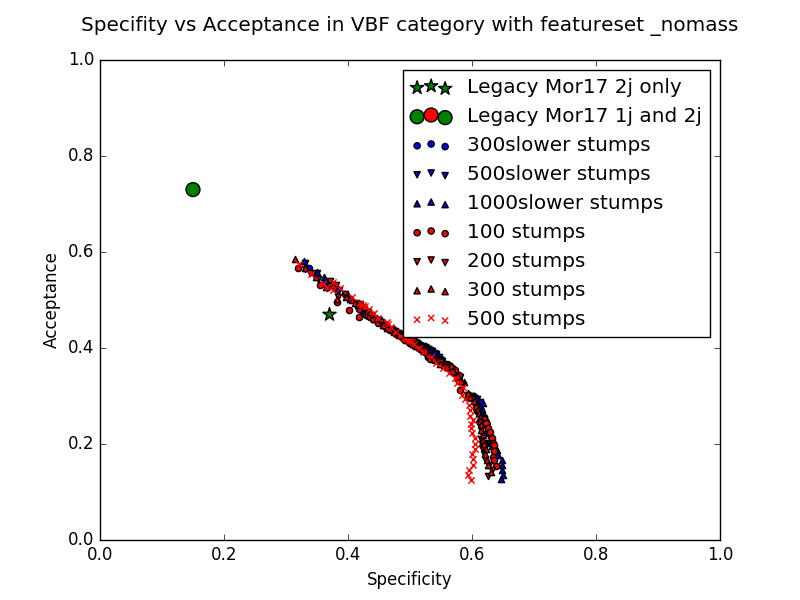
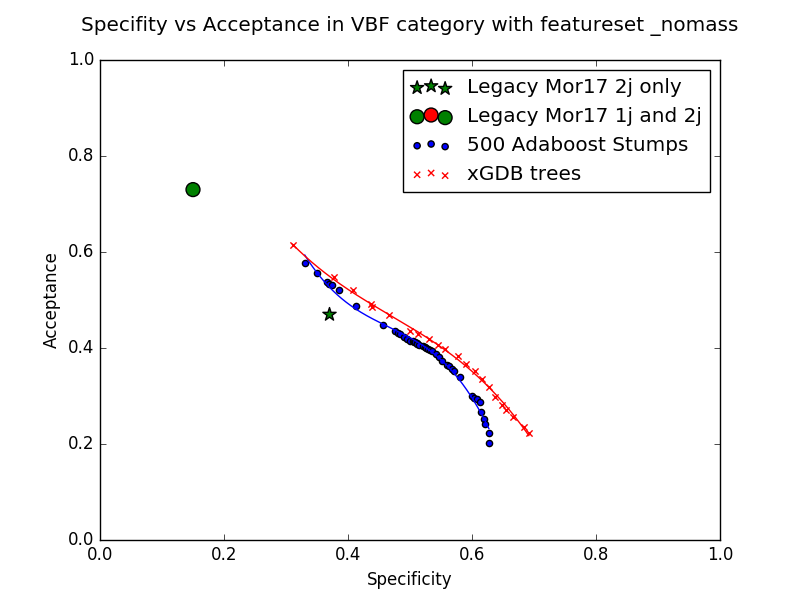
Trained xgdb models.

Changed region(s): [[0.3438, 0.21, 0.9062, 0.81]]

diff --git a/main.py b/main.py
@@ -10,6 +10,8 @@ from core import assertions
 from core import legacy
 import core.preprocessing as pr
 import core.roc_curve as roc
+import sys
+from contextlib import contextmanager
 logging.basicConfig(filename='logs', format='%(levelname)s %(asctime)s %(message)s', level=logging.INFO,
                     datefmt='%H:%M:%S')
 logging.info('Logger initialized')
@@ -17,41 +19,50 @@ logging.info('Logger initialized')
 if cst.ignore_warnings:
     warnings.filterwarnings('ignore')
 
+@contextmanager
+def redirected(stdout):
+    saved_stdout = sys.stdout
+    sys.stdout = open(stdout, 'w')
+    yield
+    sys.stdout = saved_stdout
+
 
 if __name__ == "__main__":
+
+    evl.content_plot('xgb_200', save=True)
+    raise IOError
     try:
         # raise IOError
         open('saves/common_nomass/full_test_set.dst')
     except IOError:
         logging.info('Preprocessing datasets (might take some time)')
         pr.full_process((0, 1,))
-
-    for plop in [1]:
-        cst.features_set_selector = plop
-        directory, suffix = cst.dir_suff_dict[cst.features_set_selector]
-        for model_name in cst.models_dict.keys():
-            logging.info('Studying model ' + model_name + suffix)
-            try:
-                #raise IOError
-                open('saves/classifiers/' + model_name + suffix + '_categorizer.pkl', 'rb')
-            except IOError:
-                logging.info('Training model ' + model_name)
-                if model_name[0] == 'a':
-                    ctg.model_training(model_name)
-                elif model_name[0] == 'x':
-                    ctg.train_xgcd(model_name)
-            try:
-                #raise IOError
-                open('saves/predictions/' + model_name + suffix + '_predictions.prd', 'rb')
-                open('saves/predictions/' + model_name + suffix + '_bkg_predictions.prd', 'rb')
-            except IOError:
-                logging.info('Generating predictions for ' + model_name + suffix)
-                ctg.generate_predictions(model_name)
-            try:
-                #raise IOError
-                open('saves/metrics/' + model_name + suffix + '_acceptance.txt', 'rb')
-            except IOError:
-                logging.info('Generating metrics for ' + model_name + suffix)
-                evl.calculate_metrics(model_name)
-        logging.info('All models studied with features set ' + suffix)
-    #roc.main()
+    with redirected(stdout='logs'):
+        for plop in [1]:
+            cst.features_set_selector = plop
+            directory, suffix = cst.dir_suff_dict[cst.features_set_selector]
+            for model_name in cst.models_dict.keys():
+                logging.info('Studying model ' + model_name + suffix)
+                try:
+                    #raise IOError
+                    open('saves/classifiers/' + model_name + suffix + '_categorizer.pkl', 'rb')
+                except IOError:
+                    logging.info('Training model ' + model_name)
+                    if model_name[0] == 'a':
+                        ctg.model_training(model_name)
+                    elif model_name[0] == 'x':
+                        ctg.train_xgcd(model_name)
+                try:
+                    #raise IOError
+                    open('saves/predictions/' + model_name + suffix + '_predictions.prd', 'rb')
+                    open('saves/predictions/' + model_name + suffix + '_bkg_predictions.prd', 'rb')
+                except IOError:
+                    logging.info('Generating predictions for ' + model_name + suffix)
+                    ctg.generate_predictions(model_name)
+                try:
+                    #raise IOError
+                    open('saves/metrics/' + model_name + suffix + '_acceptance.txt', 'rb')
+                except IOError:
+                    logging.info('Generating metrics for ' + model_name + suffix)
+                    evl.calculate_metrics(model_name)
+            logging.info('All models studied with features set ' + suffix)

diff --git a/core/trainer.py b/core/trainer.py
@@ -11,16 +11,18 @@ import pandas as pd
 import matplotlib.pylab as plt
 from sklearn.model_selection import GridSearchCV
 
+with open('saves/common_nomass/scaler.pkl', 'rb') as f:
+    nomass_scaler = pickle.load(f)
+
 train = pd.read_table('saves/common_nomass/full_training_set.dst',sep=None, names=cst.features_names_xgdb, header=None)
 train_label = np.loadtxt('saves/common_nomass/full_training_labels.lbl')
 train['prod_mode'] = train_label
 test = pd.read_table('saves/common_nomass/full_test_set.dst',sep=None, names=cst.features_names_xgdb, header=None)
 test_label = np.loadtxt('saves/common_nomass/full_test_labels.lbl')
-test['prod_mode'] = test_label
-
 target = 'prod_mode'
 predictors = [x for x in train.columns if x not in [target]]
-
+#xgtest = xgb.DMatrix(train[predictors].values, label=train[target].values)
+bkg = pd.DataFrame(nomass_scaler.transform(np.loadtxt('saves/common_nomass/ZZTo4l.dst')), columns=cst.features_names_xgdb)
 
 def model_training(model_name):
     models_dict = copy(cst.models_dict)
@@ -52,29 +54,35 @@ def train_xgcd(model_name, early_stopping_rounds=30, cv_folds=5):
     suffix = '_nomass'
     xgb_param = alg.get_xgb_params()
     weights = np.array([class_weights[int(cat)] for cat in train_label])
-    xgtrain = xgb.DMatrix(train[predictors].values, label=train[target].values, weights=weights)
+    xgtrain = xgb.DMatrix(train[predictors].values, label=train[target].values, weight=weights)
     cvresult = xgb.cv(xgb_param, xgtrain, num_boost_round=alg.get_params()['n_estimators'], nfold=cv_folds,
-                      stratified=True, metrics='merror', early_stopping_rounds=early_stopping_rounds, verbose_eval=2)
+                      stratified=True, metrics='merror', early_stopping_rounds=early_stopping_rounds, verbose_eval=None)
     alg.set_params(n_estimators=cvresult.shape[0])
-    alg.fit(train[predictors], train[target], eval_metric='merror')
-
+    logging.info('Number of boosting rounds optimized')
+    alg.fit(train[predictors], train[target], eval_metric='merror', sample_weight=weights)
+    logging.info('Model fit')
     with open('saves/classifiers/' + model_name + suffix + '_categorizer.pkl', 'wb') as f:
         pickle.dump(alg, f)
 
 
 def generate_predictions(model_name):
     directory, suffix = cst.dir_suff_dict[cst.features_set_selector]
-    scaled_dataset = np.loadtxt(directory + 'full_test_set.dst')
-    background_dataset = np.loadtxt(directory + 'ZZTo4l.dst')
-
     with open('saves/classifiers/' + model_name + suffix + '_categorizer.pkl', mode='rb') as f:
         classifier = pickle.load(f)
     with open(directory + 'scaler.pkl', mode='rb') as f:
         scaler = pickle.load(f)
 
-    results = classifier.predict(scaled_dataset)
-    probas = classifier.predict_proba(scaled_dataset)
-    bkg_results = classifier.predict(scaler.transform(background_dataset))
+    if model_name[0] == 'a':
+        scaled_dataset = np.loadtxt(directory + 'full_test_set.dst')
+        background_dataset = np.loadtxt(directory + 'ZZTo4l.dst')
+        results = classifier.predict(scaled_dataset)
+        probas = classifier.predict_proba(scaled_dataset)
+        bkg_results = classifier.predict(scaler.transform(background_dataset))
+    elif model_name[0] == 'x':
+        results = classifier.predict(test)
+        probas = classifier.predict_proba(test)
+        bkg_results = classifier.predict(bkg)
+
 
     out_path = 'saves/predictions/' + model_name + suffix
     np.savetxt(out_path + '_predictions.prd', results)

diff --git a/core/roc_curve.py b/core/roc_curve.py
@@ -7,6 +7,7 @@ import matplotlib.pyplot as p
 from core.evaluation import content_plot
 import os
 import logging
+
 decision_stump = DecisionTreeClassifier(max_depth=1)
 
 
@@ -31,27 +32,39 @@ def custom_roc():
     specificity = 0.15
     p.scatter(specificity, acceptance, marker='o', c='gr', s=10**2, label='Legacy Mor17 1j and 2j')
 
-    for n_est, symbol in zip([300, 500, 1000], ['o', 'v', '^']):
+    for n_est, symbol in zip([500], ['o']):
         plop = [model for model in slow_stumps_dict if (model.split('_')[2] == str(n_est))]
         plop.sort()
 
         acceptances = np.array([np.loadtxt('saves/metrics/' + name + '_acceptance.txt')[1] for name in plop])
         specificities = np.array([np.loadtxt('saves/metrics/' + name + '_specificity.txt')[1] for name in plop])
-        #mask = acceptances > 0.12
-	#specificities = specificities[mask]
-        #acceptances = acceptances[mask]
+        coefs = np.polyfit(specificities, acceptances, 3)
+        pol = np.poly1d(coefs)
+        fit_range = np.linspace(np.min(specificities), np.max(specificities), 1024)
+        p.scatter(specificities, acceptances, marker=symbol, c='b', label=str(n_est) + ' Adaboost Stumps')
+        p.plot(fit_range, pol(fit_range), c='b') 
 
-        p.scatter(specificities, acceptances, marker=symbol, c='b', label=str(n_est) + 'slower stumps')
+  #  for n_est, symbol in zip([100, 200, 300, 500], ['o', 'v', '^', 'x']):
+  #      plop = [model for model in stumps_dict if (model.split('_')[2] == str(n_est))]
+  #      plop.sort()
+  #      acceptances = [np.loadtxt('saves/metrics/' + name + '_acceptance.txt')[1] for name in plop]
+  #      specificities = [np.loadtxt('saves/metrics/' + name + '_specificity.txt')[1] for name in plop]
+  #      #mask = acceptances > 0.12
+  #      #specificities = specificities[mask]
+  #      #acceptances = acceptances[mask]
+  #      p.scatter(specificities, acceptances, marker=symbol, c='r', label=str(n_est) + ' stumps')
 
-    for n_est, symbol in zip([100, 200, 300, 500], ['o', 'v', '^', 'x']):
-        plop = [model for model in stumps_dict if (model.split('_')[2] == str(n_est))]
-        plop.sort()
-        acceptances = [np.loadtxt('saves/metrics/' + name + '_acceptance.txt')[1] for name in plop]
-        specificities = [np.loadtxt('saves/metrics/' + name + '_specificity.txt')[1] for name in plop]
-        #mask = acceptances > 0.12
-	#specificities = specificities[mask]
-        #acceptances = acceptances[mask]
-        p.scatter(specificities, acceptances, marker=symbol, c='r', label=str(n_est) + ' stumps')
+    
+    plop = [model for model in available_models if (model.split('_')[0] == 'xgb')]
+    plop.sort()
+    acceptances = np.array([np.loadtxt('saves/metrics/' + name + '_acceptance.txt')[1] for name in plop])
+    specificities = np.array([np.loadtxt('saves/metrics/' + name + '_specificity.txt')[1] for name in plop])
+    coefs = np.polyfit(specificities, acceptances, 3)
+    pol = np.poly1d(coefs)
+    fit_range = np.linspace(np.min(specificities), np.max(specificities), 1024)
+    p.scatter(specificities, acceptances, marker='x', c='r', label='xGDB trees')
+    p.plot(fit_range, pol(fit_range), c='r') 
+    
 
     p.legend(loc=1)
     p.savefig('saves/figs/full_roc')

diff --git a/core/constants.py b/core/constants.py
@@ -87,10 +87,13 @@ def add_stumps():
             (AdaBoostClassifier(decision_stump, n_estimators=n_est), [float(purity_param) / 100., 1., 1., 1., 1., 1., 1.])
 
 def add_xgdb():
-    for purity_param in np.arange(100, 400, step=20):
+    for purity_param in np.arange(100, 1000, step=50):
         models_dict['xgb' + '_' + str(purity_param)] = \
             (xgb_base, [float(purity_param) / 100., 1., 1., 1., 1., 1., 1.])
-
+    for purity_param in np.arange(100, 200, step=20):
+        models_dict['xgb' + '_' + str(purity_param)] = \
+            (xgb_base, [float(purity_param) / 100., 1., 1., 1., 1., 1., 1.])
+    
 def add_slow_stumps():
     for n_est in [300, 500, 1000]:
         for purity_param in np.arange(100, 300, step=10):

diff --git a/core/evaluation.py b/core/evaluation.py
@@ -49,9 +49,9 @@ def content_plot(model_name, save=False):
     suffix += '/'
 
     contents_table = np.loadtxt('saves/metrics/' + model_name + '_contentstable.txt')
-    specificity = np.savetxt('saves/metrics/' + model_name + '_specificity.txt')
-    acceptance = np.savetxt('saves/metrics/' + model_name + '_acceptance.txt')
-    bkg_repartition = np.savetxt('saves/metrics/' + model_name + '_bkgrepartition.txt')
+    specificity = np.loadtxt('saves/metrics/' + model_name + '_specificity.txt')
+    acceptance = np.loadtxt('saves/metrics/' + model_name + '_acceptance.txt')
+    bkg_repartition = np.loadtxt('saves/metrics/' + model_name + '_bkgrepartition.txt')
 
     ordering = [nb_categories - 1 - i for i in range(nb_categories)]
 
